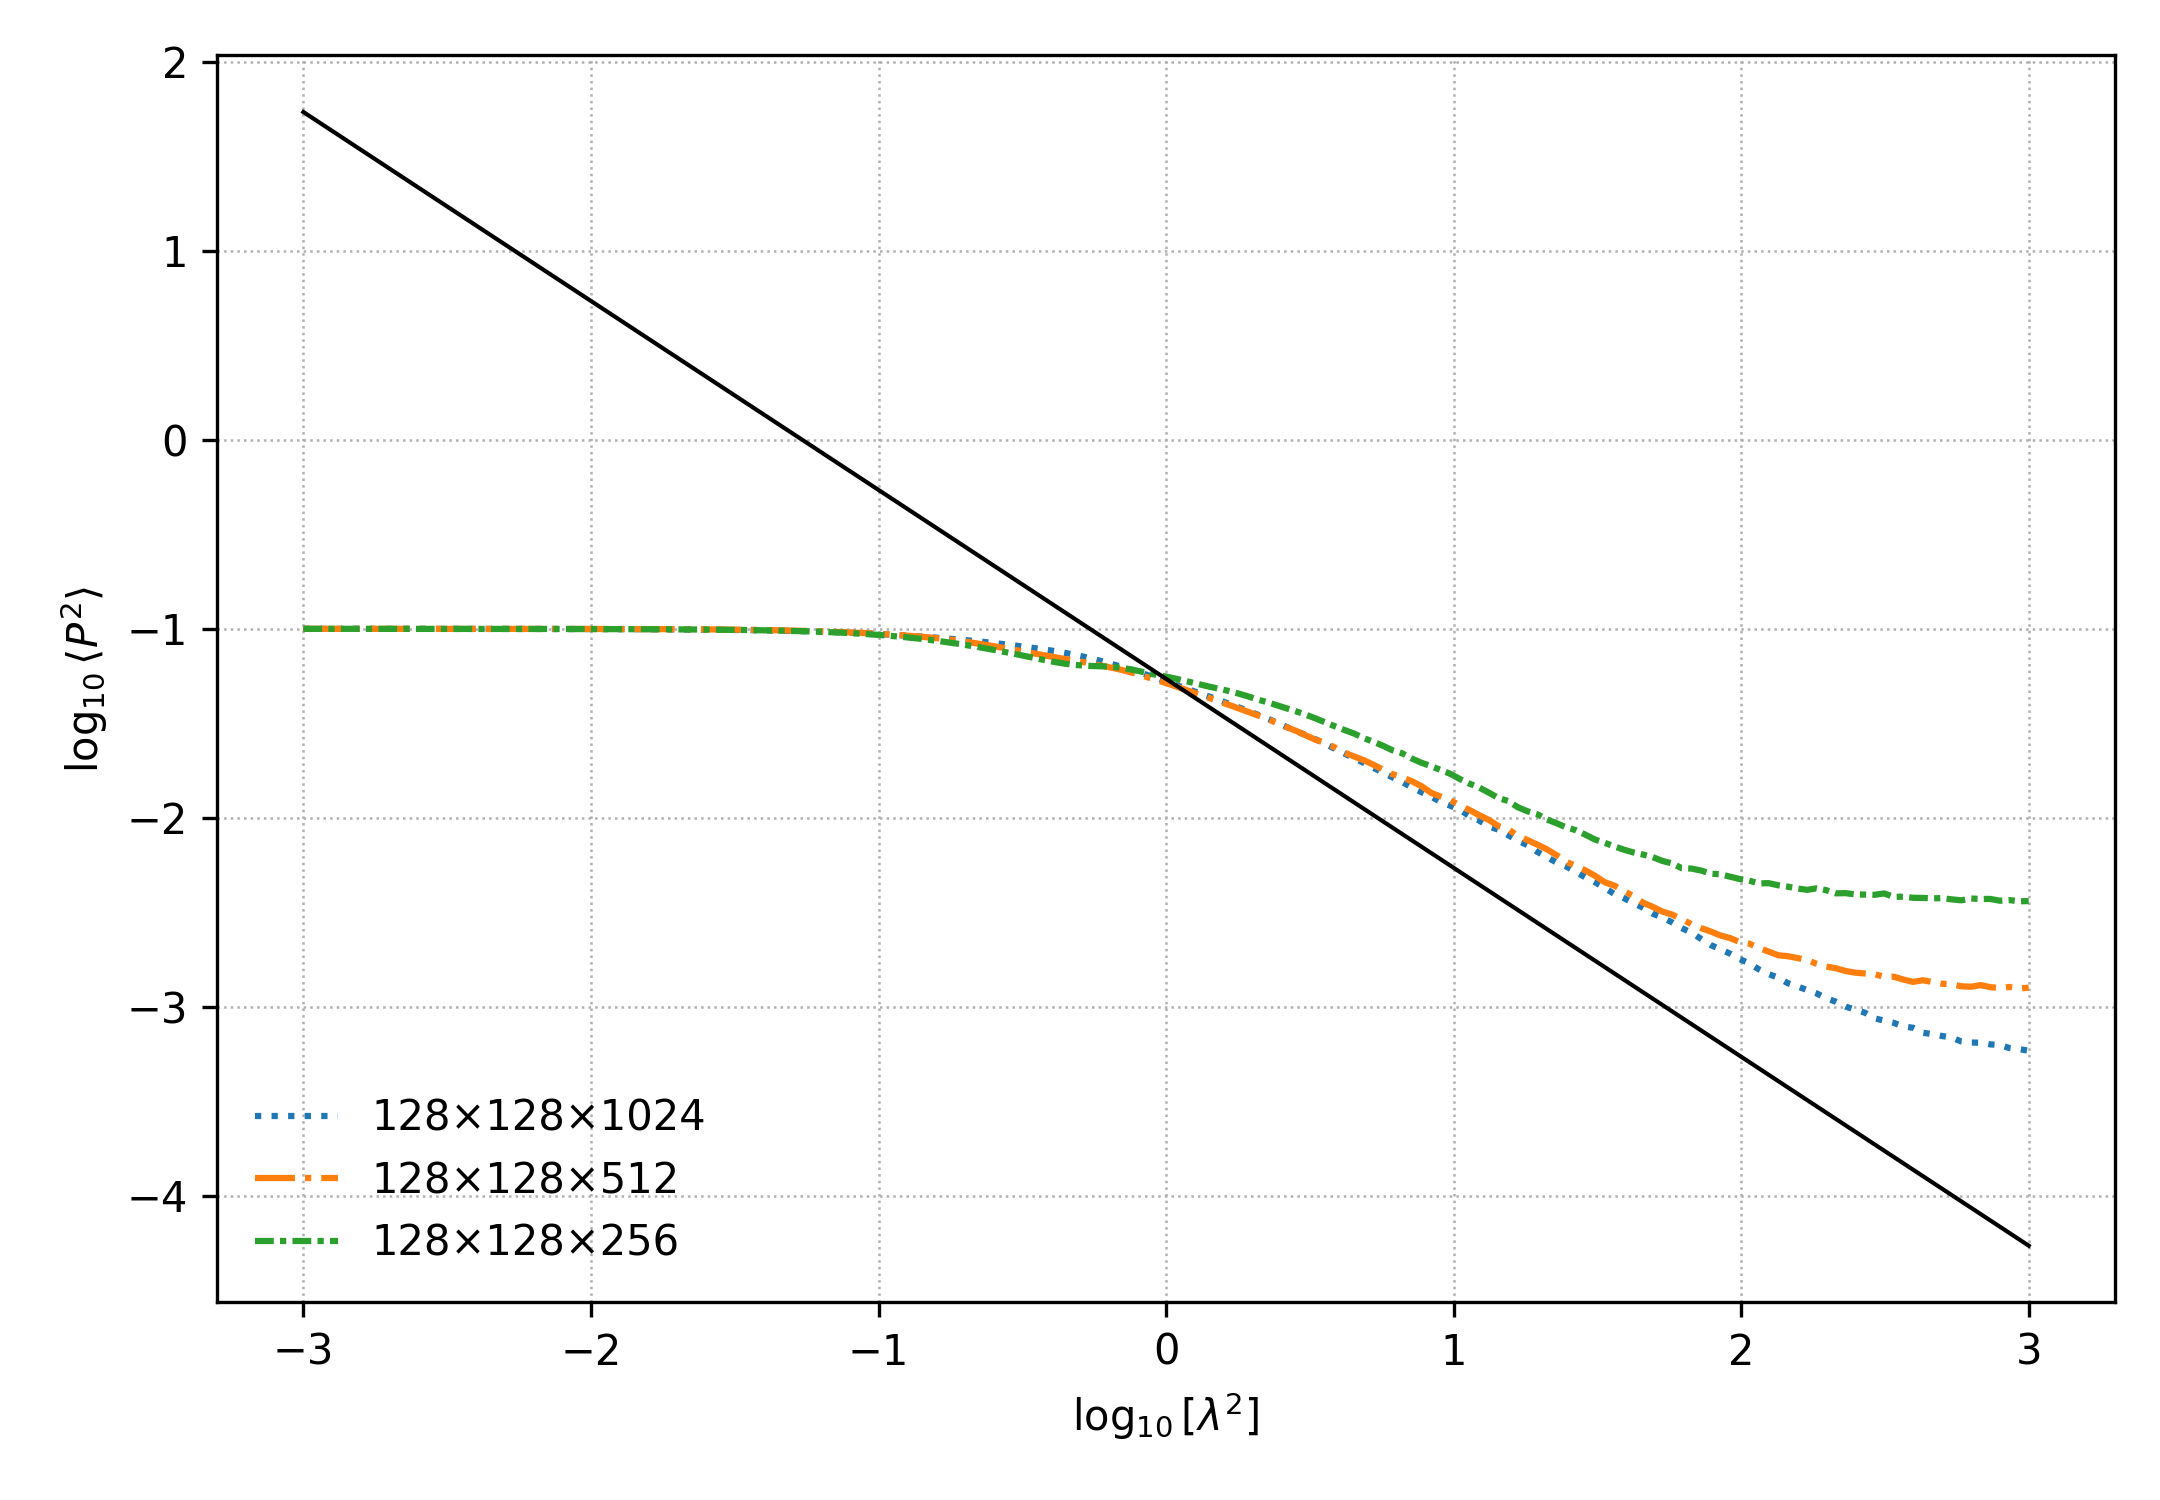
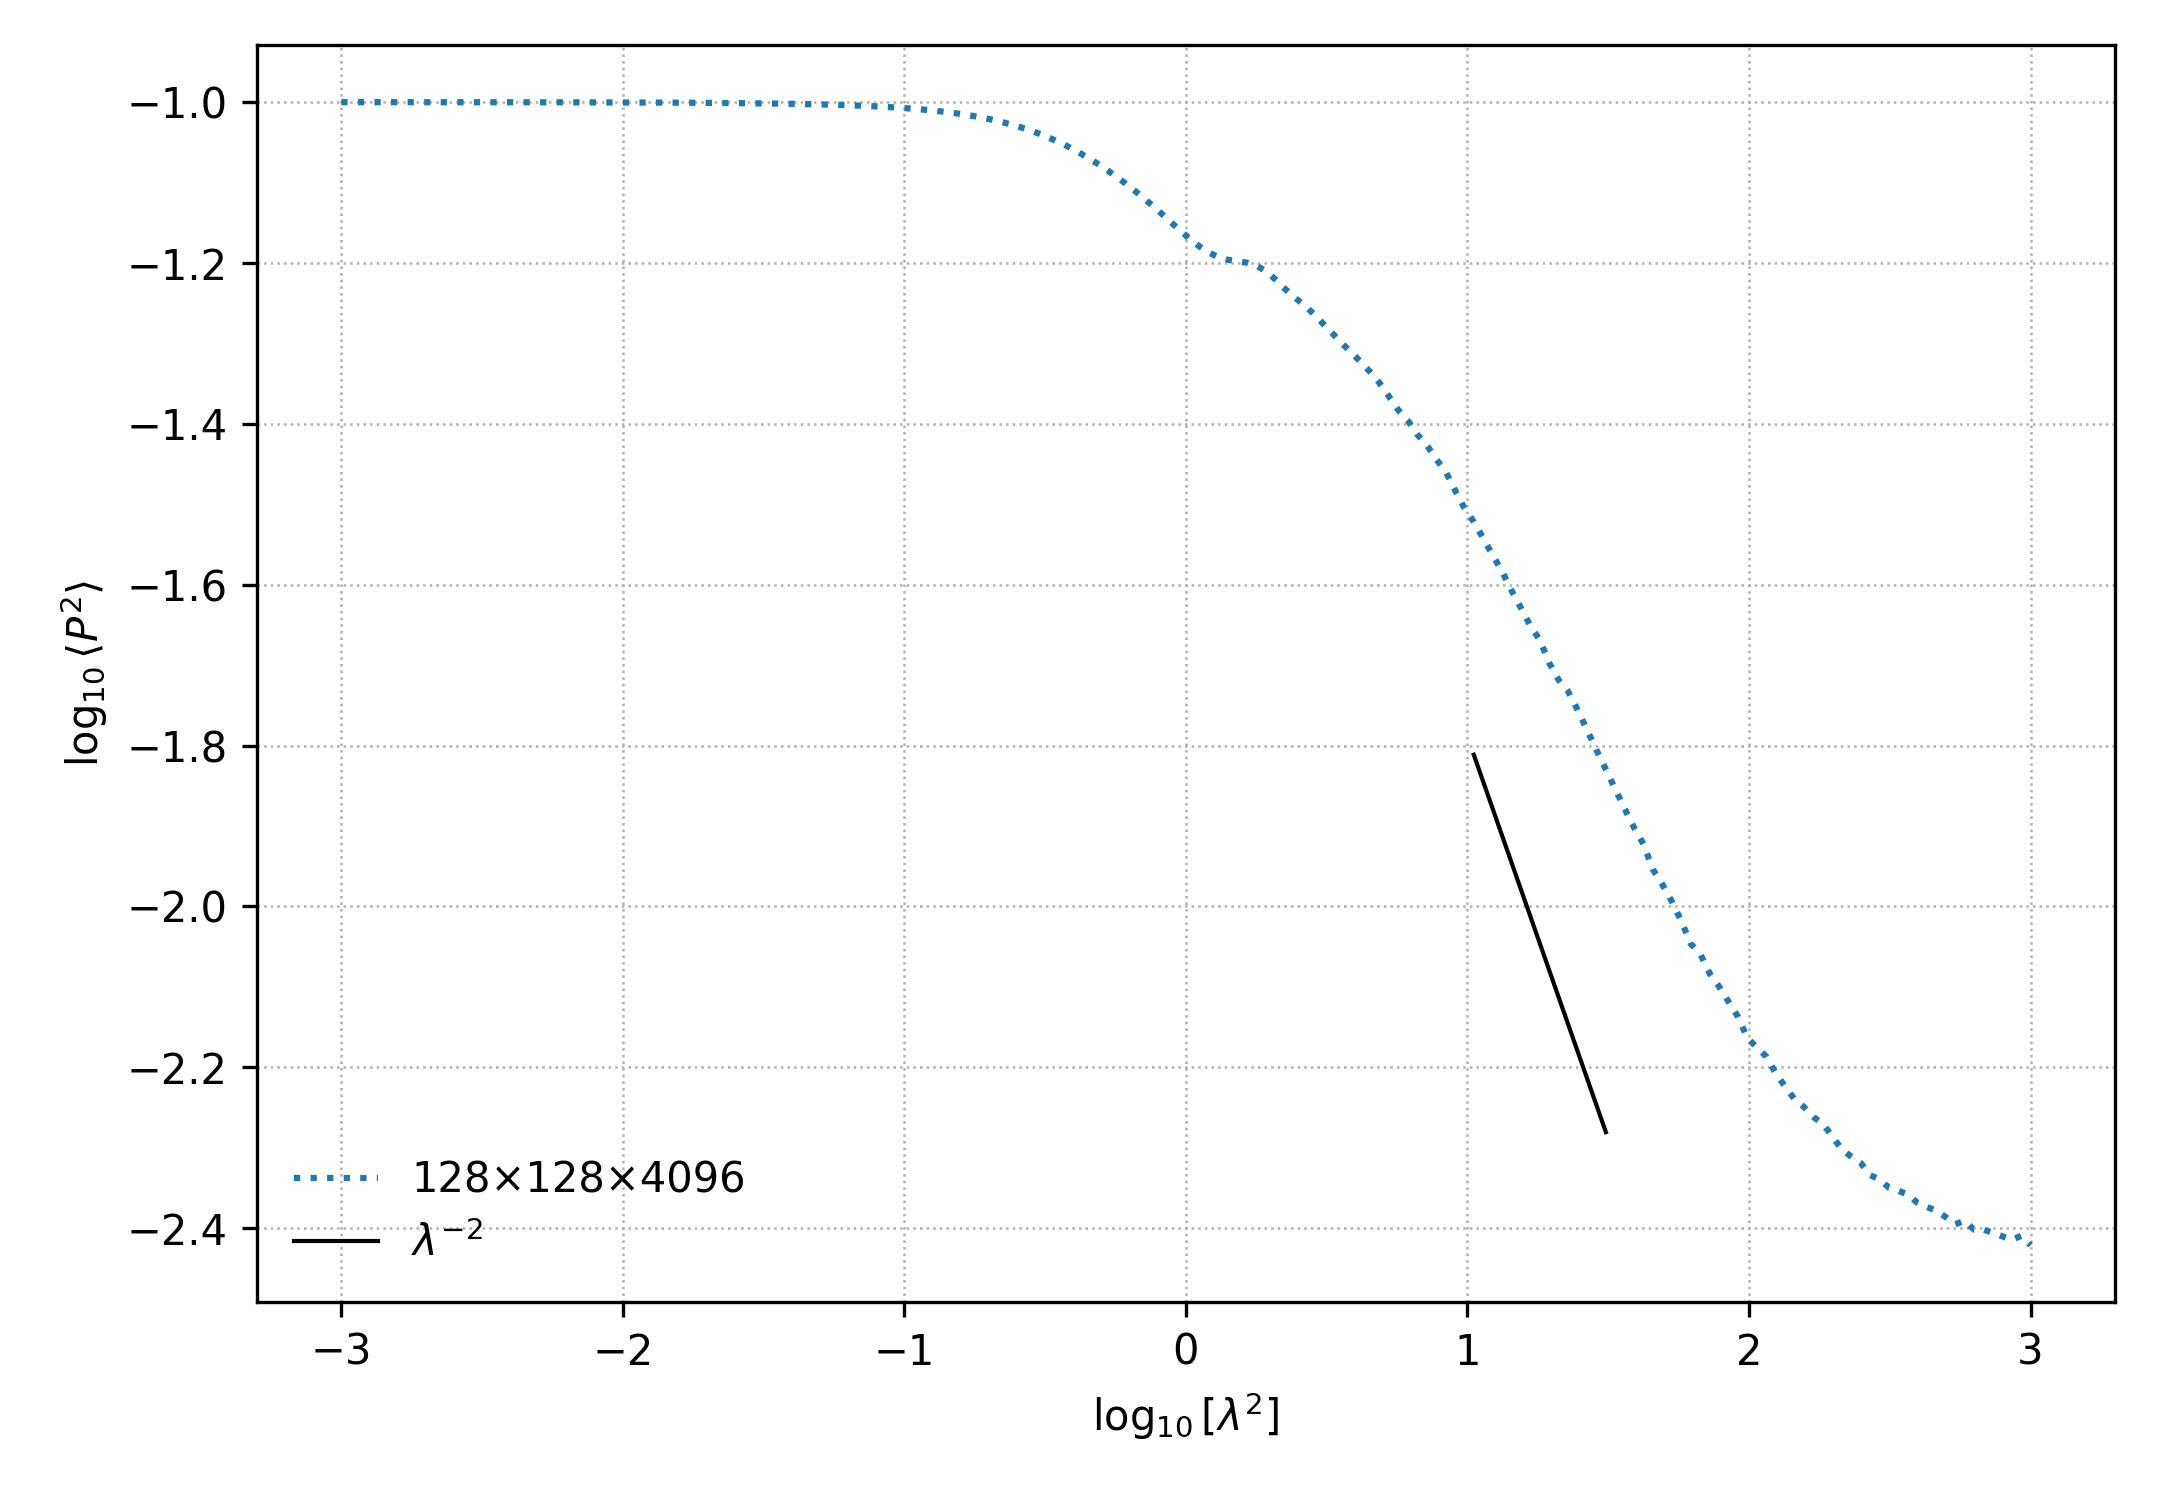
Enforcing η=∞ and using local σ_φ for Faraday coefficient calibration

diff --git a/athena_vtk_to_h5/zhang/polarization_variance (eta=inf).py b/athena_vtk_to_h5/zhang/polarization_variance (eta=inf).py
@@ -17,17 +17,63 @@ def polarized_variance_curve(path, lam2, L=1.0, gamma=2.0, lam2_break_target=1e-
     nx, ny, nz = bx.shape
     dz = L / float(nz)
 
+    # --- enforce η=∞ (random-dominated Faraday) as in Zhang fig: remove mean B∥
+    bz = bz - bz.mean()
+
     bperp2 = bx*bx + by*by
     emis = bperp2**(gamma/2.0)
     e2ipsi = np.exp(2j * np.arctan2(by, bx))
     emis_phase = emis * e2ipsi
 
-    rm_base = ne * bz
+    # Faraday density per unit length (this is the σ_φ that controls L_eff)
+    # NOTE: This uses the same B field for emissivity and Faraday rotation.
+    # For stricter LP16/Zhang compliance with λ⁻² asymptote, consider using an 
+    # independent scalar for B∥ (e.g. bz_rm = synth_scalar(..., seed=777))
+    # to decorrelate Π(z) from φ(z), which sharpens the slope.
+    rm_base = ne * bz                        # φ(z) in arbitrary units per length
     phi_cum = np.cumsum(rm_base, axis=2) * dz
-    phi_half = phi_cum - 0.5 * rm_base * dz
+    phi_half = phi_cum - 0.5 * rm_base * dz # midpoint cumulation for phase
 
-    sigma_phi_base = float(np.std(phi_cum[:, :, -1]))
-    rm_coeff = 1.0 / max(2.0 * lam2_break_target * sigma_phi_base, 1e-30)
+    # --- Use local σ_φ, not sky σ of the *integrated* Φ, to place the break ---
+    sigma_phi_local = float(np.std(rm_base))       # rms of φ per unit length
+    # place the L→long-λ break where L_eff ≈ L:  L_eff ~ [2 λ^2 σ_φ]^{-1}
+    # ⇒ choose rm_coeff so that λ_break^2 ≈ lam2_break_target
+    #    1 / (2 λ_break^2 rm_coeff σ_φ) ≈ L  →  rm_coeff ≈ [1 / (2 λ_break^2 σ_φ L)]
+    rm_coeff = 1.0 / max(2.0 * lam2_break_target * sigma_phi_local * L, 1e-30)
+
+    # simple regime diagnostics (optional but helpful)
+    def L_eff(l2): return 1.0 / max(2.0 * l2 * rm_coeff * sigma_phi_local, 1e-30)
+    # Estimate correlation length along z from autocorrelation
+    def estimate_corr_length_z(field):
+        # Sample a few sightlines and average ACF
+        nsample = min(100, field.shape[0] * field.shape[1])
+        idx = np.random.RandomState(42).choice(field.shape[0] * field.shape[1], nsample, replace=False)
+        corr_est = []
+        for i in idx:
+            iz, iy = i // field.shape[1], i % field.shape[1]
+            z_data = field[iz, iy, :]
+            if np.std(z_data) < 1e-10:
+                continue
+            z_acf = np.correlate(z_data, z_data, mode='full') / np.correlate(z_data, z_data, mode='valid')[0]
+            z_acf = z_acf[len(z_data)-1:]  # positive lags only
+            # Find first crossing of 1/e
+            e_index = np.where(z_acf < np.exp(-1))[0]
+            if len(e_index) > 0:
+                corr_est.append(float(e_index[0]) * dz)
+        ri = np.mean(corr_est) if corr_est else 0.01 * L  # fallback estimate
+        return ri
+    
+    try:
+        ri = estimate_corr_length_z(rm_base)
+        print(f"[diag] σ_φ(local)={sigma_phi_local:.3e}, L={L:.3e}, r_i≈{ri:.3e}, "
+              f"λ²_break≈{lam2_break_target:g}, "
+              f"L_eff(λ²=1)≈{L_eff(1.0):.3e}, L_eff(λ²=10)≈{L_eff(10.0):.3e}")
+        print(f"[diag] For λ⁻² regime: need L_eff << L and L_eff << r_i. "
+              f"At λ²=10: L_eff/L≈{L_eff(10.0)/L:.3f}, L_eff/r_i≈{L_eff(10.0)/ri:.3f}")
+    except:
+        print(f"[diag] σ_φ(local)={sigma_phi_local:.3e}, L={L:.3e}, "
+              f"λ²_break≈{lam2_break_target:g}, "
+              f"L_eff(λ²=1)≈{L_eff(1.0):.3e}, L_eff(λ²=10)≈{L_eff(10.0):.3e}")
 
     y = np.empty(lam2.size, dtype=np.float64)
     for i, l2 in enumerate(lam2):
@@ -50,6 +96,9 @@ def polarized_variance_curve_optimized(path, lam2, L=1.0, gamma=2.0, lam2_break_
     nx, ny, nz = bx.shape
     dz = L / float(nz)
 
+    # --- enforce η=∞ (random-dominated Faraday) as in Zhang fig: remove mean B∥
+    bz = bz - bz.mean()
+
     # Pre-compute all emission and polarization data
     bperp2 = bx*bx + by*by
     emis = bperp2**(gamma/2.0)
@@ -57,13 +106,14 @@ def polarized_variance_curve_optimized(path, lam2, L=1.0, gamma=2.0, lam2_break_
     emis_phase = emis * e2ipsi
 
     # Half-cell Faraday depth calculation
+    # NOTE: Uses same B field for emissivity and Faraday. See decorrelation note above.
     rm_base = ne * bz
     phi_cum = np.cumsum(rm_base, axis=2) * dz
     phi_half = phi_cum - 0.5 * rm_base * dz
 
-    # Auto-calibrate Faraday coefficient
-    sigma_phi_base = float(np.std(phi_cum[:, :, -1]))
-    rm_coeff = 1.0 / max(2.0 * lam2_break_target * sigma_phi_base, 1e-30)
+    # Auto-calibrate Faraday coefficient using local σ_φ
+    sigma_phi_local = float(np.std(rm_base))
+    rm_coeff = 1.0 / max(2.0 * lam2_break_target * sigma_phi_local * L, 1e-30)
 
     # Vectorized computation for all wavelengths
     y = np.empty(lam2.size, dtype=np.float64)
@@ -90,6 +140,9 @@ def process_wavelength_batch_worker(args):
     nx, ny, nz = bx.shape
     dz = L / float(nz)
 
+    # --- enforce η=∞ (random-dominated Faraday) as in Zhang fig: remove mean B∥
+    bz = bz - bz.mean()
+
     # Pre-compute all emission and polarization data
     bperp2 = bx*bx + by*by
     emis = bperp2**(gamma/2.0)
@@ -97,13 +150,14 @@ def process_wavelength_batch_worker(args):
     emis_phase = emis * e2ipsi
 
     # Half-cell Faraday depth calculation
+    # NOTE: Uses same B field for emissivity and Faraday. See decorrelation note above.
     rm_base = ne * bz
     phi_cum = np.cumsum(rm_base, axis=2) * dz
     phi_half = phi_cum - 0.5 * rm_base * dz
 
-    # Auto-calibrate Faraday coefficient
-    sigma_phi_base = float(np.std(phi_cum[:, :, -1]))
-    rm_coeff = 1.0 / max(2.0 * lam2_break_target * sigma_phi_base, 1e-30)
+    # Auto-calibrate Faraday coefficient using local σ_φ
+    sigma_phi_local = float(np.std(rm_base))
+    rm_coeff = 1.0 / max(2.0 * lam2_break_target * sigma_phi_local * L, 1e-30)
 
     y = np.empty(lam2_batch.size, dtype=np.float64)
     for i, l2 in enumerate(lam2_batch):
@@ -140,11 +194,11 @@ if __name__ == '__main__':
     freeze_support()
     
     paths = [
-        "synthetic_128x128x4096.h5",
-        "synthetic_128x128x2048.h5",
-        "synthetic_128x128x1024.h5",
-        "synthetic_128x128x512.h5",
-        "synthetic_128x128x256.h5",
+        "synthetic_128x128x256_r000_.h5",
+        # "synthetic_128x128x2048.h5",
+        # "synthetic_128x128x1024.h5",
+        # "synthetic_128x128x512.h5",
+        # "synthetic_128x128x256.h5",
     ]
     labels = ["128×128×4096", "128×128×2048", "128×128×1024", "128×128×512", "128×128×256"]#,,"128×128×4096"]
     styles = [":","-.", (0,(3,1,1,1)), "--", "-"]
@@ -175,7 +229,7 @@ if __name__ == '__main__':
         ax.plot(np.log10(lam2), np.log10(y), ls=ls, label=lab)
 
     # Filter data to only show lam2 from 0 to 2
-    mask = (np.log10(lam2) >= 0) & (np.log10(lam2) <= 2)
+    mask = (np.log10(lam2) >= -3) & (np.log10(lam2) <= 3)
     lam2_filtered = lam2[mask]
     curves_filtered = [curve[mask] for curve in curves]
     
@@ -186,10 +240,13 @@ if __name__ == '__main__':
     
     # Reference line λ^{-2} positioned a bit higher
     i0 = np.argmin(np.abs(np.log10(lam2_filtered) - 0.5))
-    ref = curves_filtered[-1][i0] * (lam2_filtered / lam2_filtered[i0])**(-2.0)
+    ref = curves_filtered[-1][i0] * (lam2_filtered / lam2_filtered[i0])**(-1.0)
     # Shift reference line up by 0.5 in log space
-    ref_shifted = ref * 10**0.5
-    ax.plot(np.log10(lam2_filtered), np.log10(ref_shifted), color="k", linewidth=1.0, label=r"$\lambda^{-2}$")
+    ref_shifted = ref #* 10**0.5
+    # Filter to x-axis range from 1 to 2 (log10)
+    log10_lam2_filtered = np.log10(lam2_filtered)
+    mask = (log10_lam2_filtered >= 1) & (log10_lam2_filtered <= 1.5)
+    ax.plot(log10_lam2_filtered[mask], np.log10(ref_shifted)[mask], color="k", linewidth=1.0, label=r"$\lambda^{-2}$")
 
     ax.set_xlabel(r"$\log_{10}[\lambda^2]$")
     ax.set_ylabel(r"$\log_{10}\langle P^2\rangle$")
